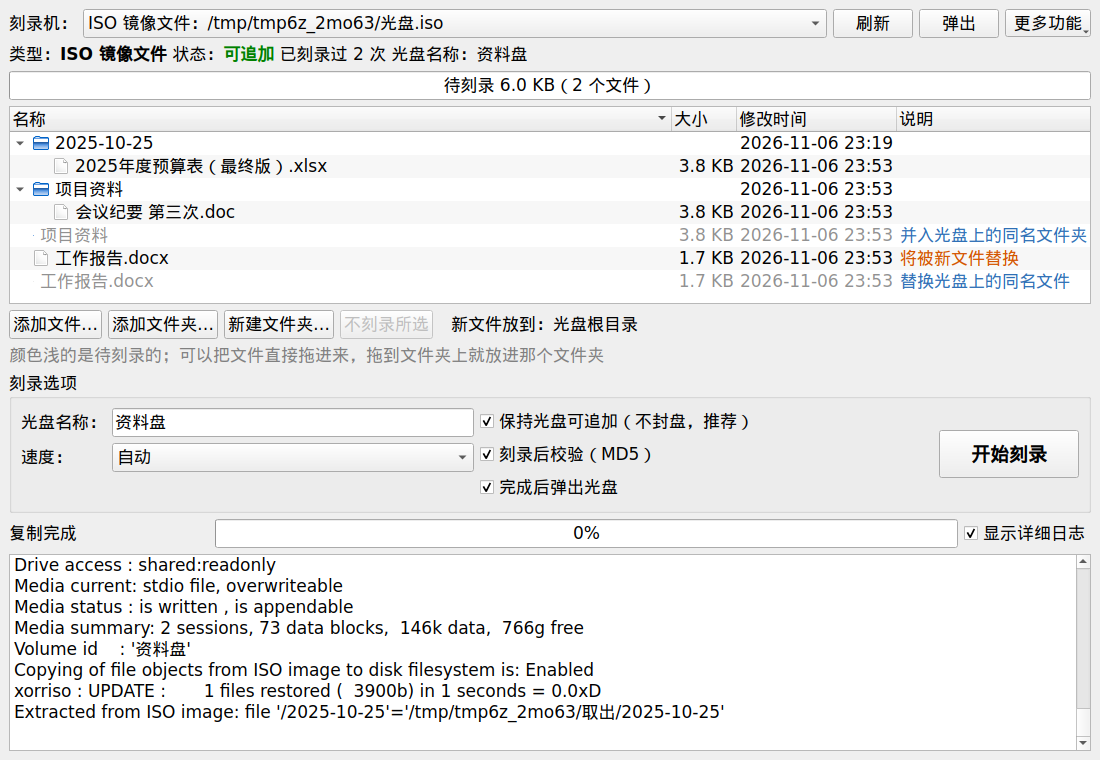
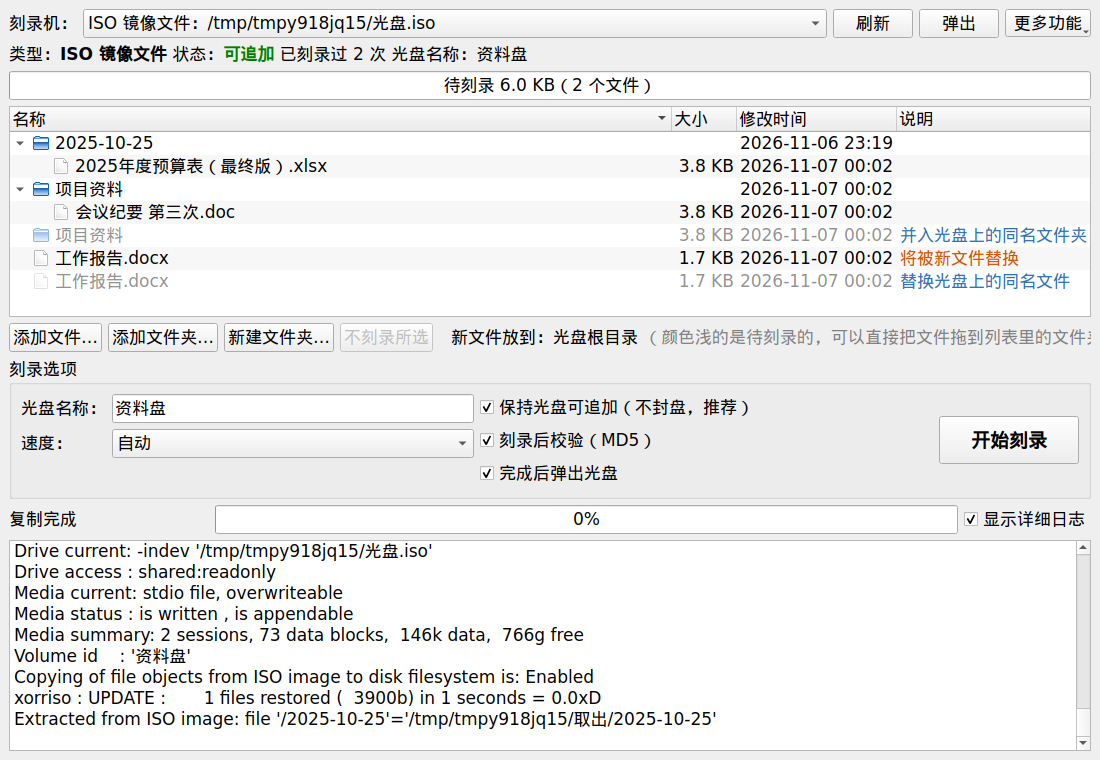
1.9.0：光盘名称跟着换盘更新；待刻录项目用半透明图标；文档截图换成示例文件

diff --git a/discburner/gui.py b/discburner/gui.py
@@ -13,12 +13,12 @@ import time
 
 from PyQt5.QtCore import (QFileInfo, QMimeData, QObject, QProcess, QSettings, Qt, QThread, QTimer,
                           QUrl, pyqtSignal, qVersion)
-from PyQt5.QtGui import QBrush, QColor, QDrag, QFont, QFontDatabase, QIcon, QPalette
+from PyQt5.QtGui import QBrush, QColor, QDrag, QFont, QFontDatabase, QIcon, QPainter, QPalette, QPixmap
 from PyQt5.QtWidgets import (
     QAbstractItemView, QApplication, QCheckBox, QComboBox, QDialog, QFileDialog,
     QFileIconProvider, QFormLayout, QFrame, QGroupBox, QHBoxLayout, QHeaderView, QInputDialog,
     QLabel, QLineEdit, QMainWindow, QMenu, QMessageBox, QPlainTextEdit, QProgressBar,
-    QPushButton, QToolButton, QTreeWidget, QTreeWidgetItem, QTreeWidgetItemIterator,
+    QPushButton, QSizePolicy, QToolButton, QTreeWidget, QTreeWidgetItem, QTreeWidgetItemIterator,
     QVBoxLayout, QWidget)
 
 from . import __version__
@@ -409,6 +409,20 @@ class RecoverDialog(QDialog):
         super(RecoverDialog, self).reject()
 
 
+def faded_icon(icon, size=16, opacity=0.45):
+    """待刻录项目用的半透明图标。"""
+    src = icon.pixmap(size, size)
+    if src.isNull():
+        return icon
+    out = QPixmap(src.size())
+    out.fill(Qt.transparent)
+    p = QPainter(out)
+    p.setOpacity(opacity)
+    p.drawPixmap(0, 0, src)
+    p.end()
+    return QIcon(out)
+
+
 ROLE_PATH = Qt.UserRole          # 盘上路径
 ROLE_KIND = Qt.UserRole + 1      # KIND_DISC / KIND_PENDING
 ROLE_PENDING = Qt.UserRole + 2   # 待刻录项目在 MainWindow.pending 里的编号
@@ -678,7 +692,7 @@ class MainWindow(QMainWindow):
         row = QHBoxLayout()
         row.addWidget(QLabel("刻录机："))
         self.cb_drive = QComboBox()
-        self.cb_drive.setMinimumWidth(360)
+        self.cb_drive.setMinimumWidth(260)
         self.cb_drive.activated.connect(self._drive_chosen)
         row.addWidget(self.cb_drive, 1)
         self.btn_refresh = QPushButton("刷新")
@@ -741,11 +755,13 @@ class MainWindow(QMainWindow):
         self.lb_target = QLabel()
         self.lb_target.setTextFormat(Qt.PlainText)
         brow.addSpacing(12)
-        brow.addWidget(self.lb_target, 1)
-        self.lb_legend = QLabel("颜色浅的是待刻录的；可以把文件直接拖进来，拖到文件夹上就放进那个文件夹")
+        brow.addWidget(self.lb_target)
+        self.lb_legend = QLabel("（颜色浅的是待刻录的，可以直接把文件拖到列表里的文件夹上）")
         self.lb_legend.setStyleSheet("color:gray")
+        self.lb_legend.setSizePolicy(QSizePolicy.Ignored, QSizePolicy.Preferred)   # 窗口窄时截掉，不撑宽窗口
+        self.lb_legend.setToolTip(self.lb_legend.text())
+        brow.addWidget(self.lb_legend, 1)
         v.addLayout(brow)
-        v.addWidget(self.lb_legend)
 
         # 选项
         g_opt = QGroupBox("刻录选项")
@@ -1108,10 +1124,16 @@ class MainWindow(QMainWindow):
             return
         self.lb_stage.setText("就绪")
         m = self.media
-        if m.has_iso and m.volume_id and not self.ed_volid.text():
-            self.ed_volid.setText(m.volume_id)
-        elif m.blank and not self.ed_volid.text():
-            self.ed_volid.setText("光盘" + datetime.date.today().strftime("%Y-%m-%d"))
+        # 光盘名称跟着光盘走：用户自己改过的不动，自动填的换盘后换成新盘的
+        typed = self.ed_volid.text().strip()
+        if not typed or typed == getattr(self, "_auto_volid", None):
+            auto = m.volume_id if m.has_iso and m.volume_id else \
+                "光盘" + datetime.date.today().strftime("%Y-%m-%d") if m.blank else typed
+            if self._transfer and self._transfer.get("volid") and not m.has_iso:
+                auto = self._transfer["volid"]
+            if auto != typed:
+                self.ed_volid.setText(auto)
+            self._auto_volid = auto
         self._show_media()
         self._fill_tree()
         self._set_busy(False)
@@ -1316,7 +1338,7 @@ class MainWindow(QMainWindow):
                 note += "（%d 个文件）" % p.count
             item = FileItem(parent, [p.name, "" if p.src is None else B.human_size(p.bytes),
                                      B.format_mtime(p.mtime), note])
-            item.setIcon(0, QIcon(self._icon(p.dst, p.is_dir, p.src).pixmap(16, QIcon.Disabled)))
+            item.setIcon(0, faded_icon(self._icon(p.dst, p.is_dir, p.src)))
             item.setData(0, ROLE_PATH, p.dst)
             item.setData(0, ROLE_KIND, KIND_PENDING)
             item.setData(0, ROLE_PENDING, i)
